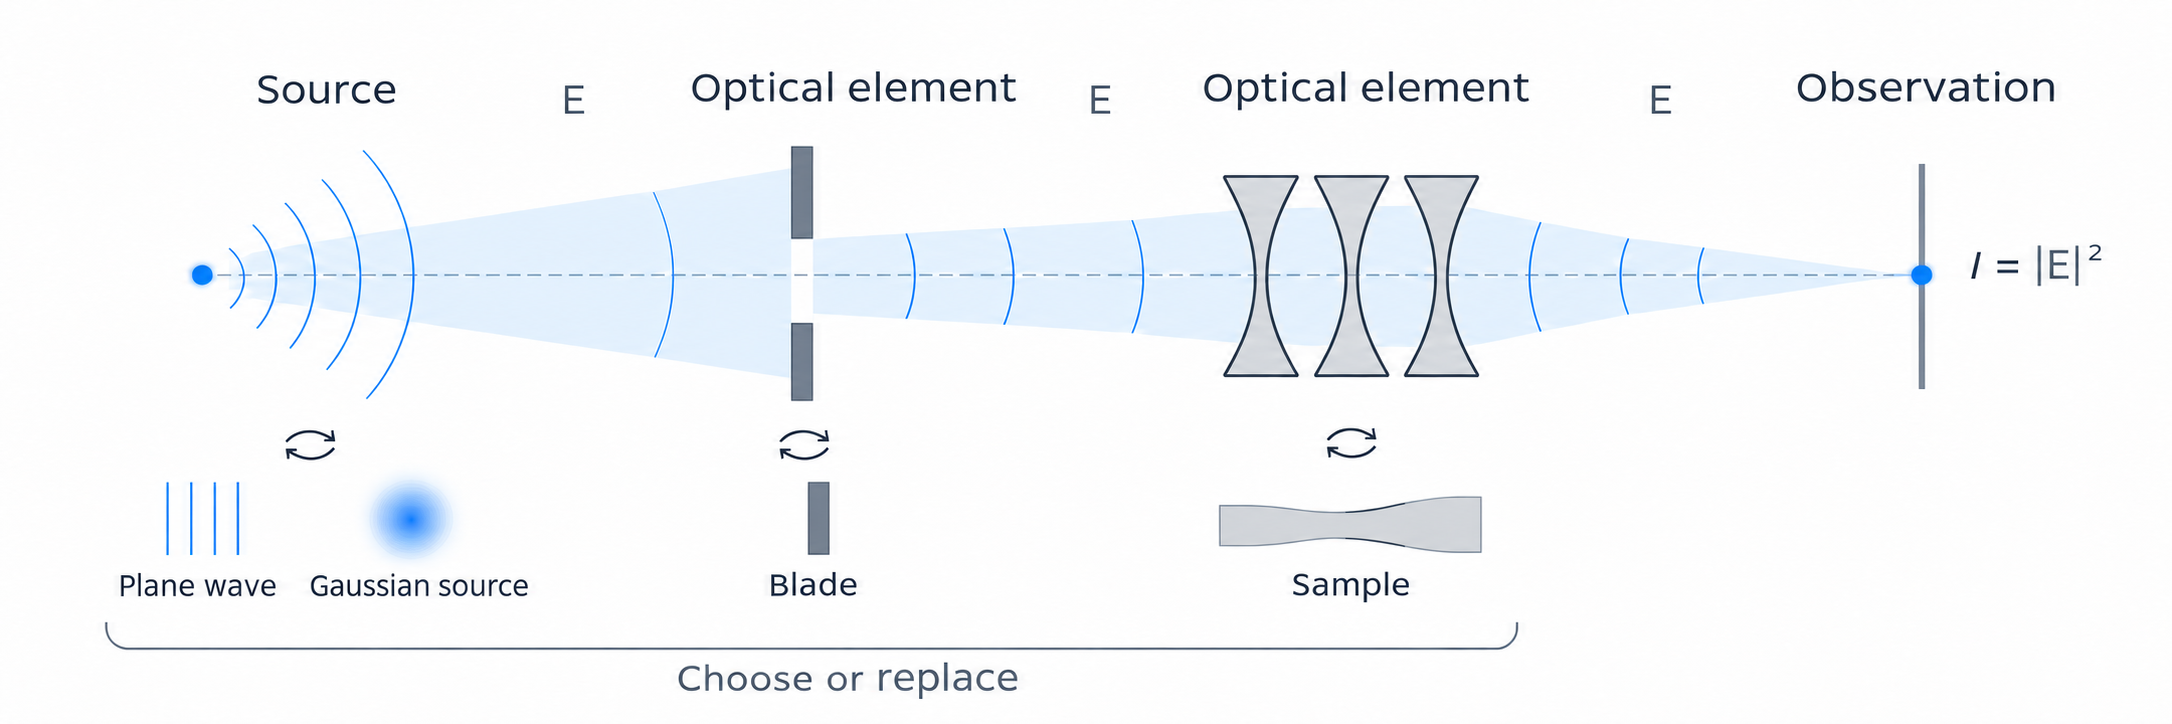
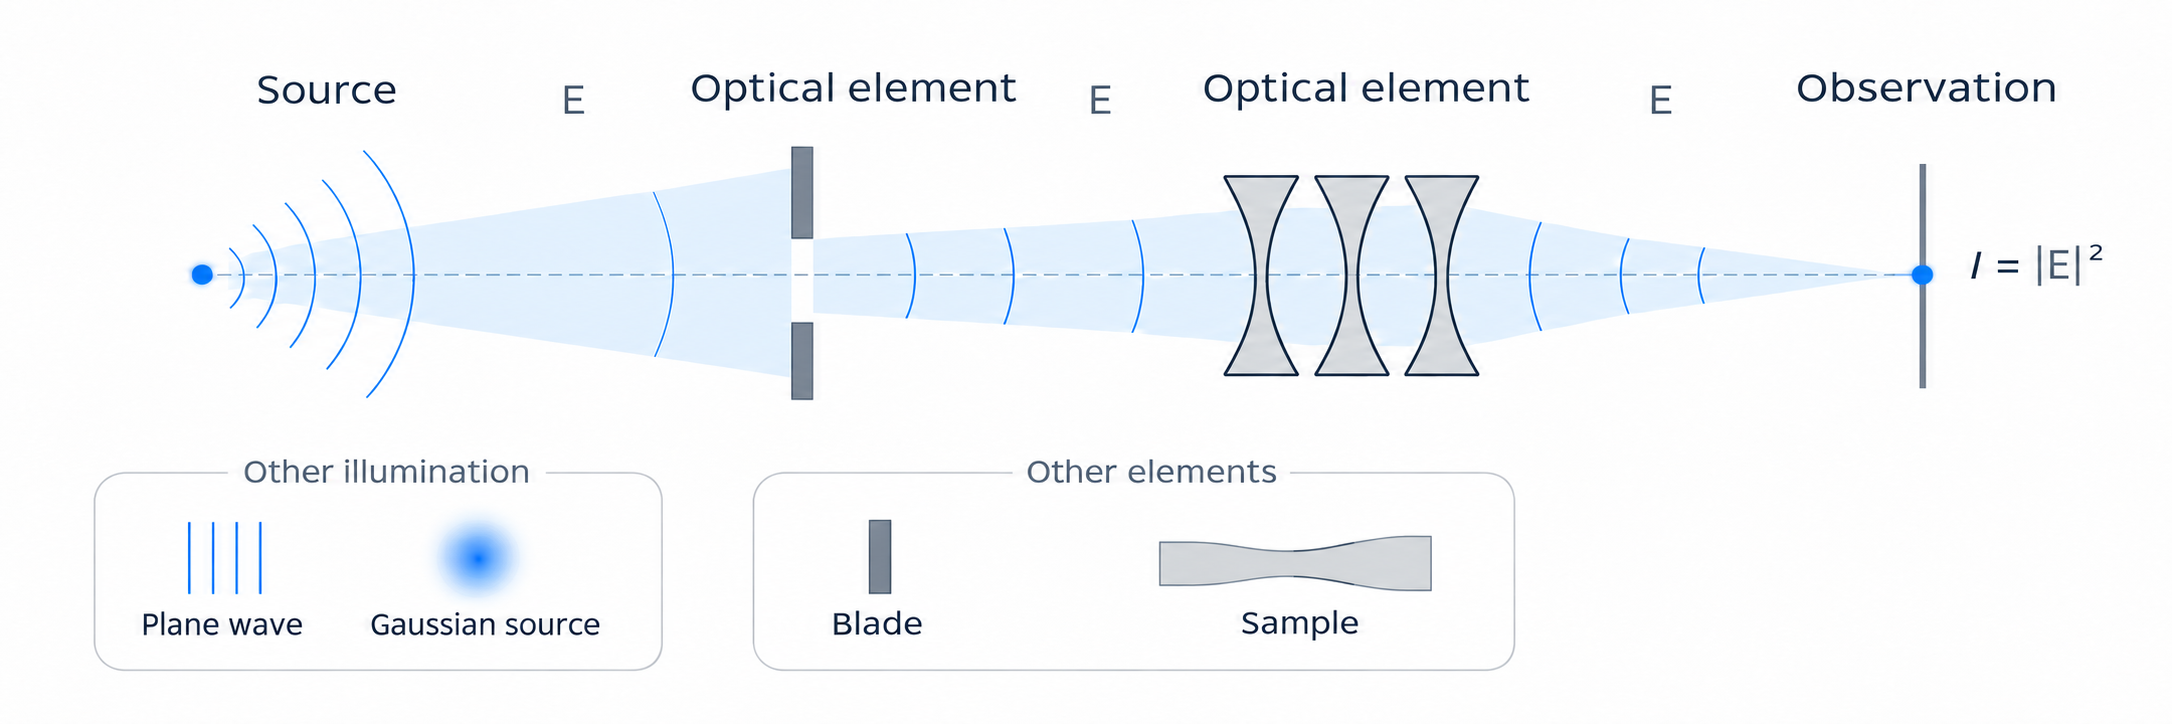
docs: show optical alternatives as choices instead of rotation symbols

diff --git a/README.md b/README.md
@@ -19,7 +19,7 @@ PyTorch and JAX on GPU.
 
 ## How it works
 
-<img src="https://raw.githubusercontent.com/mamichberdey/XPOSim/main/docs/assets/optical-scheme.png" width="900" alt="A point source illuminates an aperture and a compound refractive lens, focusing onto an observation plane. Swap symbols show plane-wave or Gaussian illumination and alternative blade or sampled-material elements." />
+<img src="https://raw.githubusercontent.com/mamichberdey/XPOSim/main/docs/assets/optical-scheme.png?v=2" width="900" alt="A point source illuminates an aperture and a compound refractive lens, focusing onto an observation plane. Separate option groups show plane-wave or Gaussian illumination and alternative blade or sampled-material elements." />
 
 Change the illumination and replace or combine optical elements to build a scheme.
 A **source creates the complex field** `E`. Each element receives it as `input_field`,
